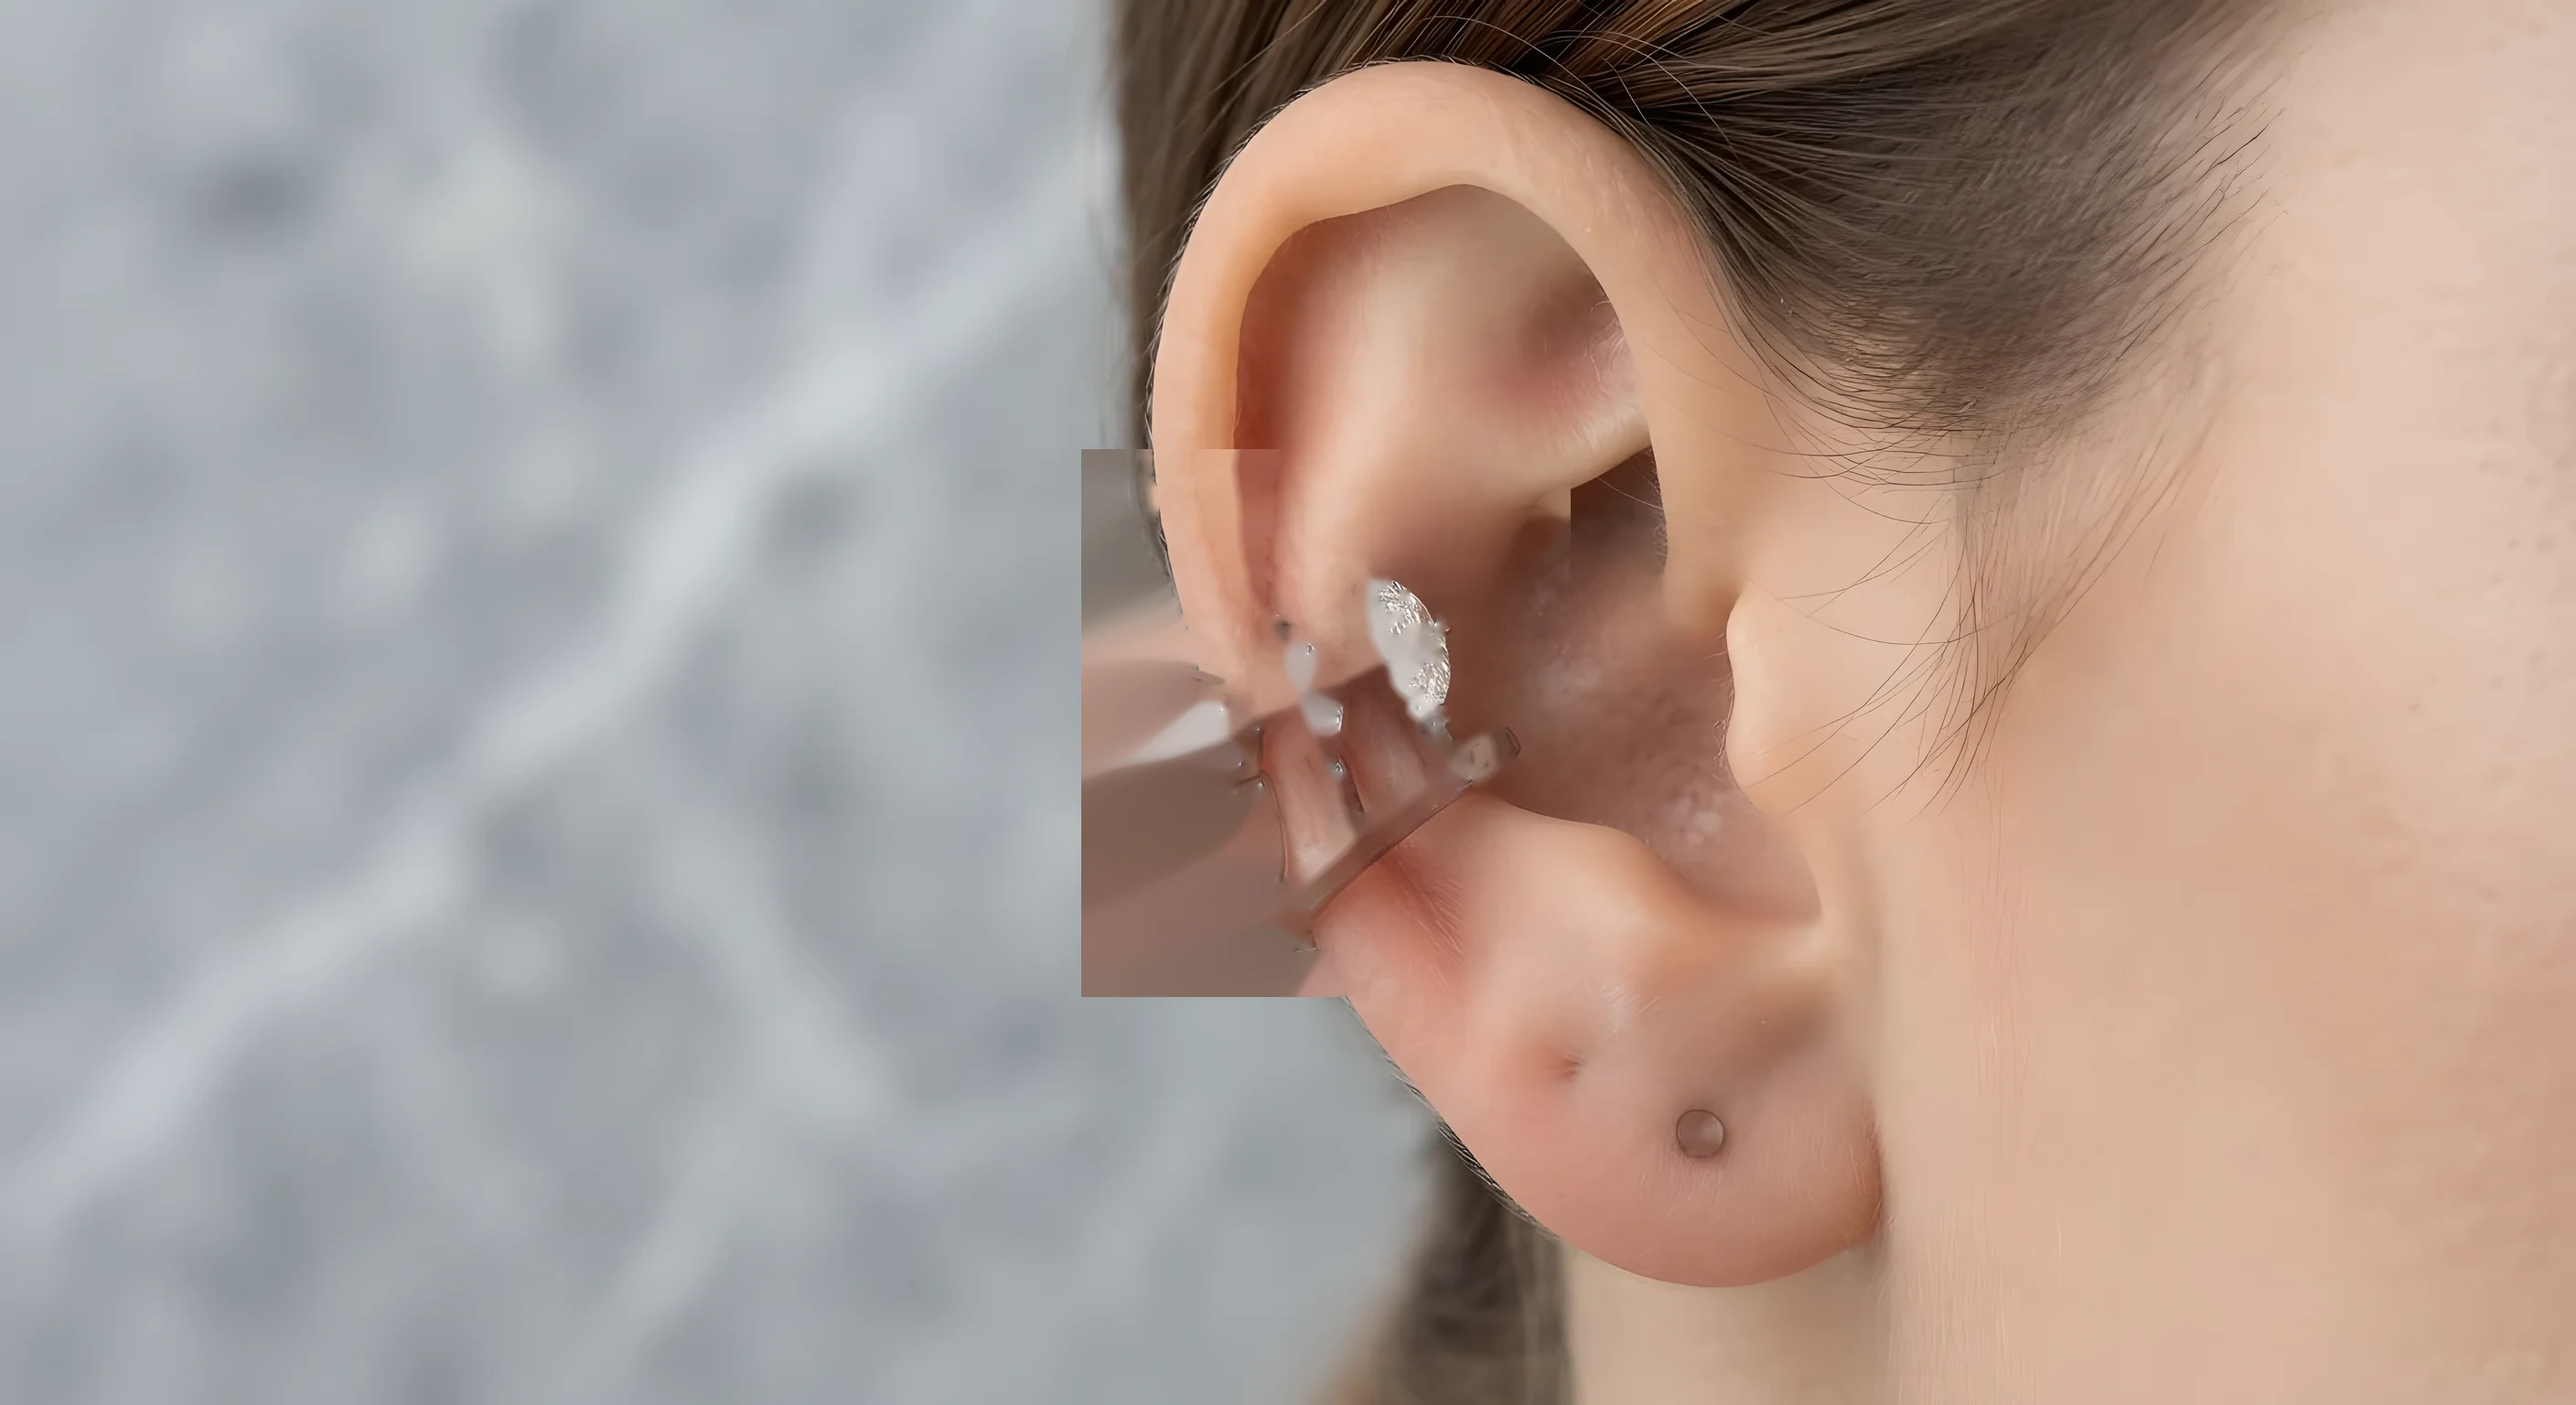
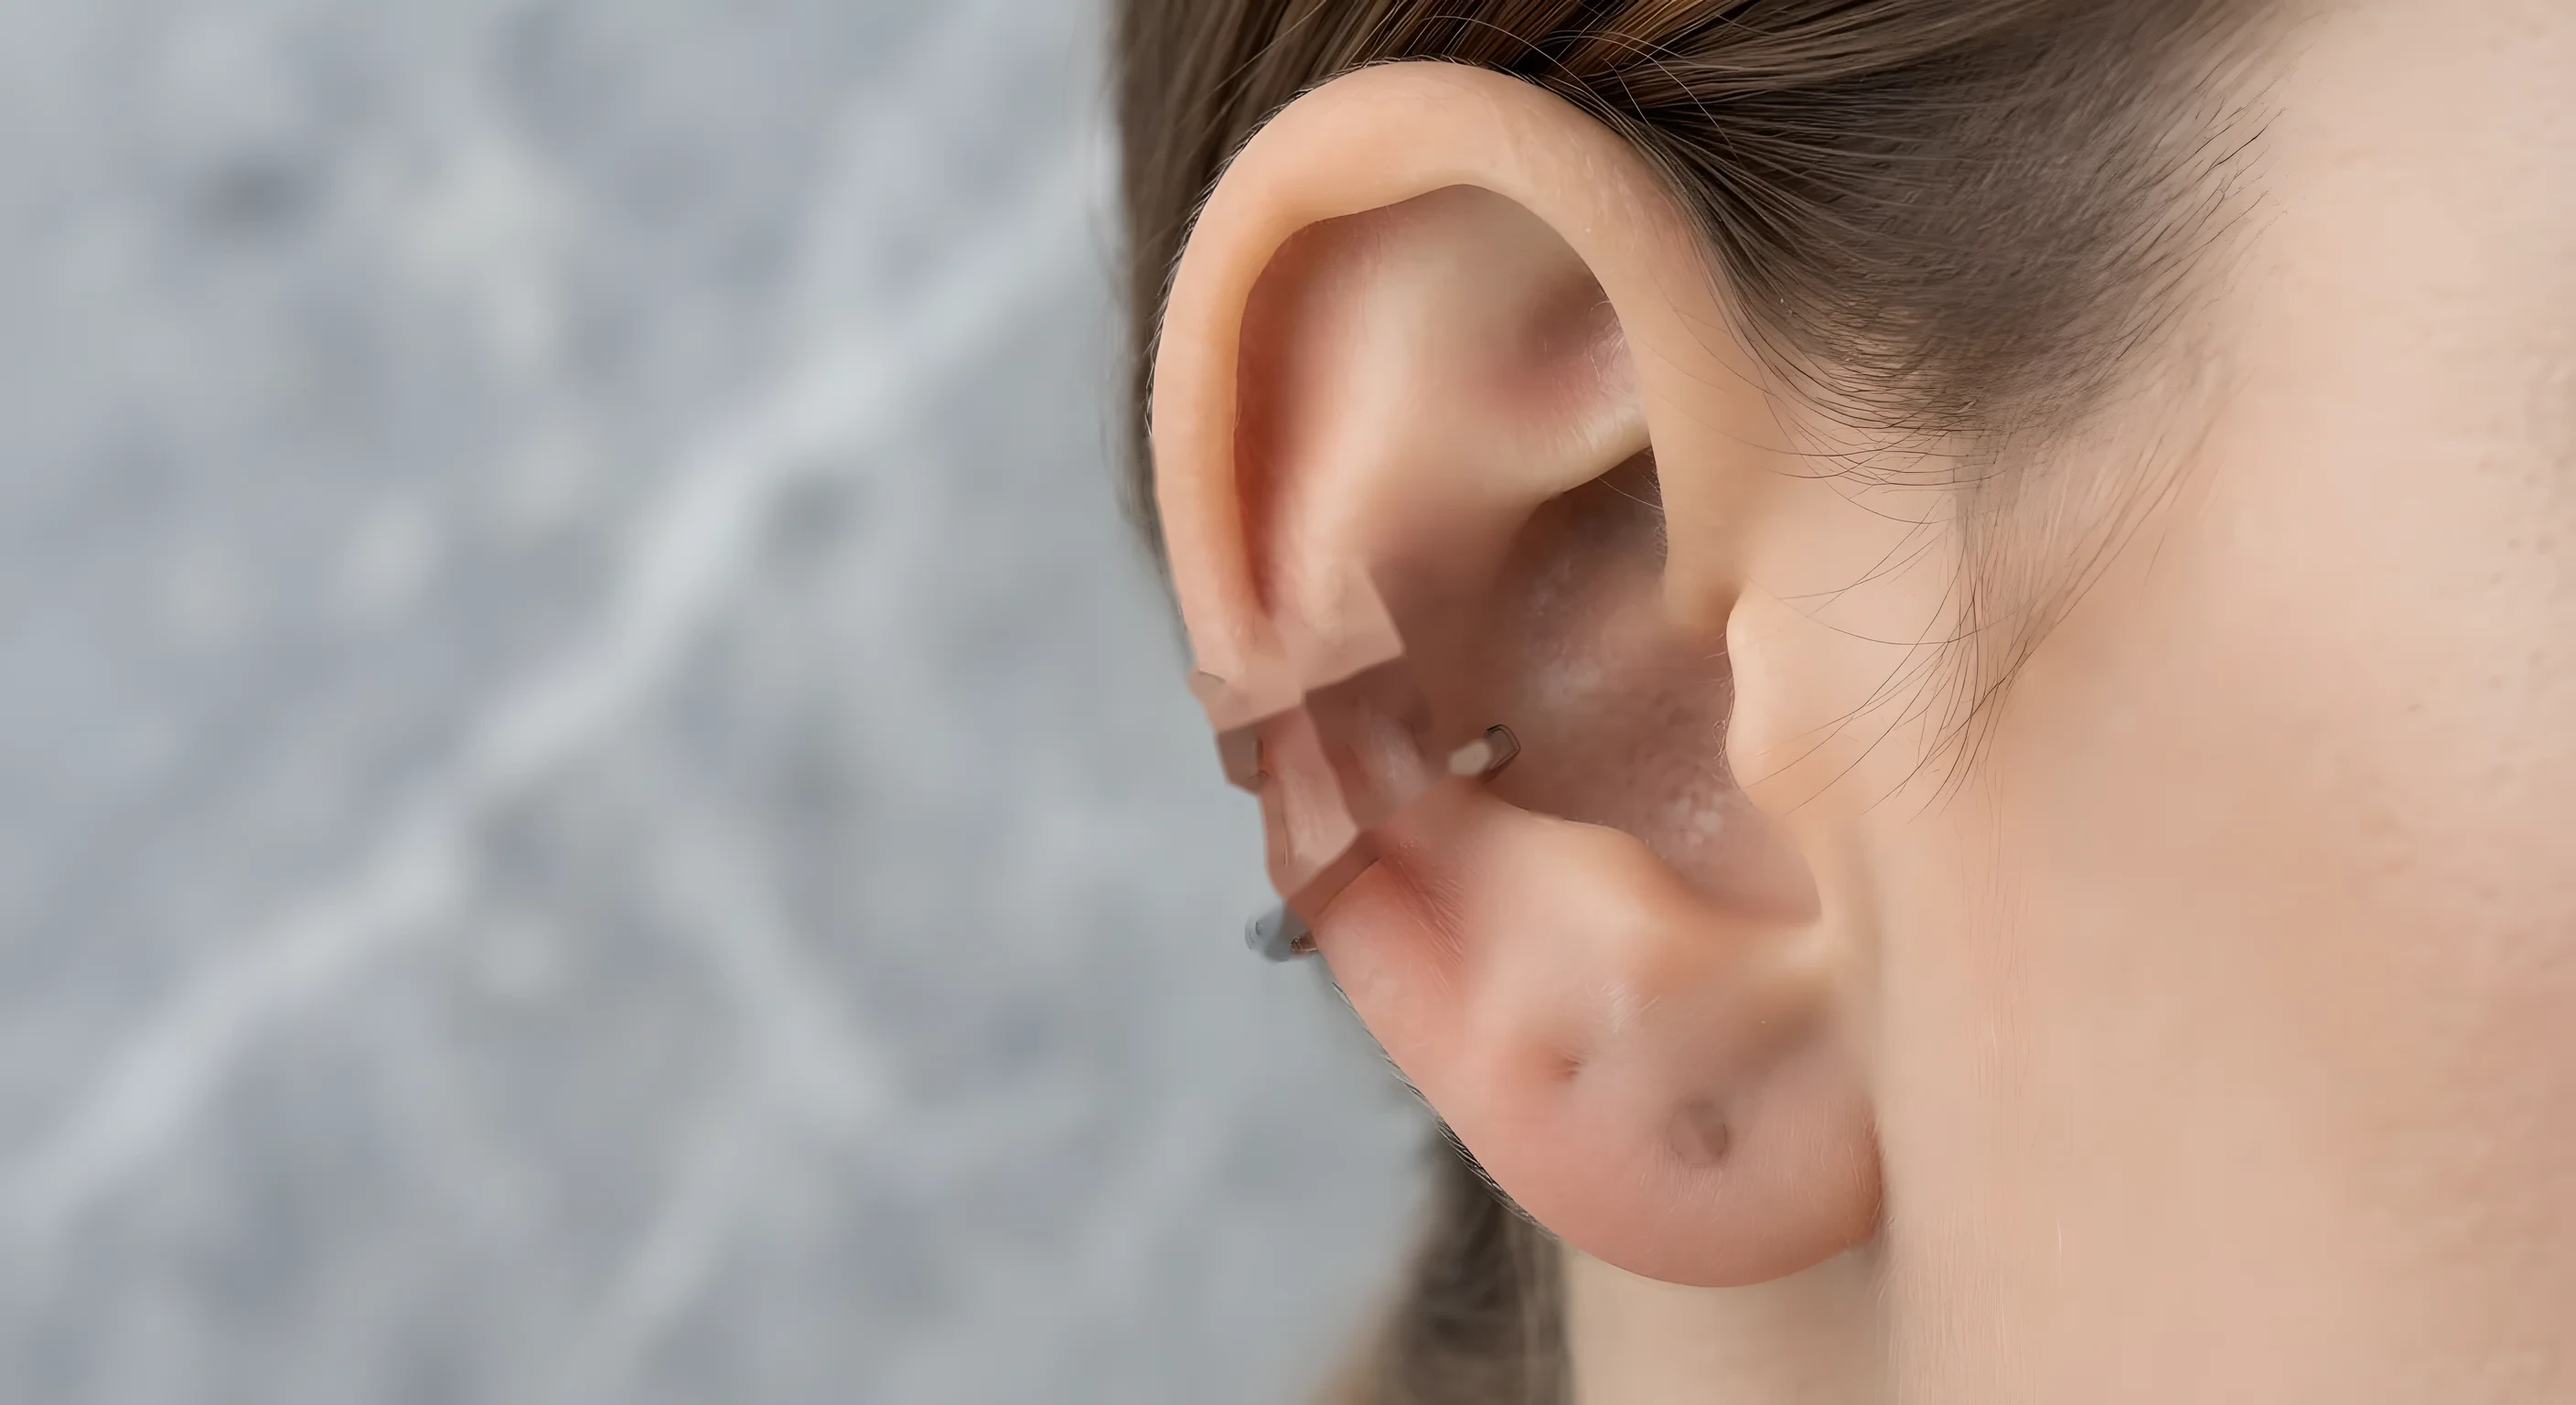
Stack Studio: rings now wrap around the finger (perpendicular angle with curve-follow taper, knuckle scale, band compression) + clean ear plate with gravity-hung earrings re-measured on piercing anatomy

Changed region(s): [[0.4062, 0.3125, 0.5625, 0.7188], [0.5938, 0.3438, 0.625, 0.375], [0.5625, 0.5312, 0.5938, 0.5625]]

diff --git a/assets/js/studio.js b/assets/js/studio.js
@@ -15,28 +15,28 @@
   }
 
   var RINGS = [
-    { id: 'flat',    name: 'The Flat Edge Band',       sub: '2.4mm · Comfort-Fit',        price: 88,  cut: 'ring-5a2779b762f2d5c6.png', thumb: '5a2779b762f2d5c6.webp' },
-    { id: 'marquise',name: 'The Marquise Eternity',    sub: 'Marquise Moissanite',        price: 242, cut: 'ring-6dd96a90f0605e5a.png', thumb: '6dd96a90f0605e5a.webp' },
-    { id: 'bloom',   name: 'Marquise Bloom Eternity',  sub: 'Open Marquise Set',          price: 280, cut: 'ring-60fdf730eee34d01.png', thumb: '60fdf730eee34d01.webp' },
-    { id: 'baguette',name: 'Emerald Baguette Eternity',sub: 'Baguette Moissanite',        price: 280, cut: 'ring-ff34151e96c86cbd.png', thumb: 'ff34151e96c86cbd.webp' },
-    { id: 'pear',    name: 'Pear Cluster Eternity',    sub: 'Pear & Round Cluster',       price: 340, cut: 'ring-ca30676073a93fec.png', thumb: 'ca30676073a93fec.webp' }
+    { id: 'flat',    name: 'The Flat Edge Band',       sub: '2.4mm · Comfort-Fit',        price: 88,  cut: 'ring-5a2779b762f2d5c6.png', thumb: '5a2779b762f2d5c6.webp', ar: 0.604 },
+    { id: 'marquise',name: 'The Marquise Eternity',    sub: 'Marquise Moissanite',        price: 242, cut: 'ring-6dd96a90f0605e5a.png', thumb: '6dd96a90f0605e5a.webp', ar: 0.987 },
+    { id: 'bloom',   name: 'Marquise Bloom Eternity',  sub: 'Open Marquise Set',          price: 280, cut: 'ring-60fdf730eee34d01.png', thumb: '60fdf730eee34d01.webp', ar: 0.812 },
+    { id: 'baguette',name: 'Emerald Baguette Eternity',sub: 'Baguette Moissanite',        price: 280, cut: 'ring-ff34151e96c86cbd.png', thumb: 'ff34151e96c86cbd.webp', ar: 0.899 },
+    { id: 'pear',    name: 'Pear Cluster Eternity',    sub: 'Pear & Round Cluster',       price: 340, cut: 'ring-ca30676073a93fec.png', thumb: 'ca30676073a93fec.webp', ar: 0.878 }
   ];
   var NECKLACES = [ /* awaiting product photography — transparent PNGs, see ASSETS NEEDED */ ];
   var NECK_PLACE = ['The Petit Tennis 40cm', 'The Station Necklace 45cm', 'The Ravenna Pendant 50cm', 'The Rivière 40cm'];
   var EARRINGS = [
-    { id: 'stud',    name: 'Solstice Ball Stud',       price: 120, cut: 'cut-ballstud.png',    w: 0.045, slot: 'lobe1' },
-    { id: 'trio',    name: 'Stellar Trio Huggie',      price: 240, cut: 'cut-triohuggie.png',  w: 0.062, slot: 'lobe1' },
-    { id: 'star',    name: 'Star Cascade Drop Huggie', price: 260, cut: 'cut-starhuggie.png',  w: 0.05,  slot: 'lobe1' },
-    { id: 'crawler', name: 'Marquise Illusion Crawler',price: 380, cut: 'cut-crawler.png',     w: 0.105, slot: 'helix' }
+    { id: 'stud',    name: 'Solstice Ball Stud',       price: 120, cut: 'cut-ballstud.png',    w: 0.045, slot: 'lobe1', rot: 0,  dy: 0 },
+    { id: 'trio',    name: 'Stellar Trio Huggie',      price: 240, cut: 'cut-triohuggie.png',  w: 0.062, slot: 'lobe1', rot: 0,  dy: 0.012 },
+    { id: 'star',    name: 'Star Cascade Drop Huggie', price: 260, cut: 'cut-starhuggie.png',  w: 0.05,  slot: 'lobe1', rot: 0,  dy: 0.055 },
+    { id: 'crawler', name: 'Marquise Illusion Crawler',price: 380, cut: 'cut-crawler.png',     w: 0.105, slot: 'helix', rot: 12, dy: 0.01 }
   ];
   var GEO = {
-    ring:      { base: 'assets/img/studio-finger-clean.webp', alt: 'Index finger preview', cx: 0.50,  cy: 0.46,  kx: 0.025, ky: 0.055, rot: -25, rw: 0.13,  max: 5, ratio: '4 / 3' },
+    ring:      { base: 'assets/img/studio-finger-clean.webp', alt: 'Index finger preview', cx: 0.515, cy: 0.47,  kx: 0.042, ky: 0.085, rot: -56, rw: 0.115,  max: 5, ratio: '4 / 3' },
     necklace:  { base: 'assets/img/studio-neck-clean.webp',   alt: 'Neck preview',         cx: 0.475, cy: 0.715, kx: 0.004, ky: 0.075, rot: 0,   rw: 0.52,  max: 4, ratio: '4 / 5' },
     ear:       { base: 'assets/img/studio-ear-clean.webp',    alt: 'Ear preview',          slots: {
-        lobe1:   { x: 0.658, y: 0.812, rot: 0,   w: 0.05,  label: 'First Lobe' },
-        lobe2:   { x: 0.632, y: 0.702, rot: -6,  w: 0.05,  label: 'Second Lobe' },
-        lobe3:   { x: 0.604, y: 0.596, rot: -12, w: 0.05,  label: 'Third Lobe' },
-        helix:   { x: 0.545, y: 0.30,  rot: 14,  w: 0.105, label: 'Helix / Crawler' }
+        lobe1:   { x: 0.632, y: 0.78,  rot: 0,   w: 0.05,  label: 'First Lobe' },
+        lobe2:   { x: 0.617, y: 0.665, rot: -6,  w: 0.05,  label: 'Second Lobe' },
+        lobe3:   { x: 0.601, y: 0.555, rot: -12, w: 0.05,  label: 'Third Lobe' },
+        helix:   { x: 0.548, y: 0.44,  rot: 10,  w: 0.105, label: 'Helix / Crawler' }
       }, max: 4, ratio: '16 / 9' }
   };
   var SIZES = [5, 6, 7, 8, 9];
@@ -74,10 +74,10 @@
   function mirrorX(x) { return cat().mirrored ? 1 - x : x; }
 
   /* ---------- renderers ---------- */
-  function itemHtml(p, px, py, wpx, rot, zi) {
+  function itemHtml(p, px, py, wpx, rot, zi, extra) {
     return '<img src="assets/img/' + p.cut + '" alt="' + p.name + '" style="position:absolute;left:' +
       px.toFixed(1) + 'px;top:' + py.toFixed(1) + 'px;width:' + wpx.toFixed(1) +
-      'px;transform:translate(-50%,-50%) rotate(' + rot + 'deg);filter:drop-shadow(0 8px 12px rgba(30,4,20,.4));z-index:' +
+      'px;transform:translate(-50%,-50%) rotate(' + rot.toFixed(1) + 'deg)' + (extra || '') + ';filter:drop-shadow(0 8px 12px rgba(30,4,20,.4));z-index:' +
       zi + ';transition:left .35s ease,top .35s ease;" draggable="false">';
   }
   function renderStacked() {
@@ -89,8 +89,14 @@
       var cy = c.cy - k * c.ky;
       var wFrac = c.rw;
       if (state.cat === 'necklace') wFrac = c.rw * (1 + (half - i) * 0.14);
-      var rot = state.cat === 'ring' ? c.rot : 0;
-      html += itemHtml(p, g.x + cx * g.w, g.y + cy * g.h, wFrac * g.w, rot, 10 + i);
+      var rot = 0, extra = '';
+      if (state.cat === 'ring') {
+        rot = c.rot - k * 3;                /* finger curves: band angle follows it */
+        var sc = 1 + 0.045 * k;             /* knuckle side slightly larger */
+        wFrac = c.rw * (p.ar || 0.95);      /* normalize so band spans ~finger width */
+        extra = ' scale(' + sc.toFixed(3) + ') scaleX(0.52)'; /* flatten along finger = wraps around */
+      }
+      html += itemHtml(p, g.x + cx * g.w, g.y + cy * g.h, wFrac * g.w, rot, 10 + i, extra);
     });
     itemsLayer.innerHTML = html;
   }
@@ -101,12 +107,15 @@
       var hx = g.x + mirrorX(d.x) * g.w, hy = g.y + d.y * g.h;
       if (it) {
         var p = find(it);
-        if (p) html += itemHtml(p, hx, hy, p.w * g.w, cat().mirrored ? -d.rot : d.rot, 10);
+        if (p) {
+          var irot = (p.rot || 0) * (cat().mirrored ? -1 : 1);
+          html += itemHtml(p, hx, hy + (p.dy || 0) * g.h, p.w * g.w, irot, 10);
+        }
       }
       html += '<button class="za-hot" data-slot="' + slot + '" aria-label="Piercing: ' + d.label + '" title="' + d.label + '" style="position:absolute;left:' +
         hx.toFixed(1) + 'px;top:' + hy.toFixed(1) +
         'px;width:30px;height:30px;transform:translate(-50%,-50%);border-radius:9999px;border:1.5px dashed ' +
-        (it ? 'transparent' : 'rgba(56,6,34,.55)') + ';background:' + (it ? 'transparent' : 'rgba(215,227,239,.25)') +
+        (it ? 'transparent' : 'rgba(56,6,34,.35)') + ';background:rgba(255,255,255,.12);backdrop-filter:blur(1px);' +
         ';cursor:pointer;z-index:20;"></button>';
     });
     itemsLayer.innerHTML = html;
